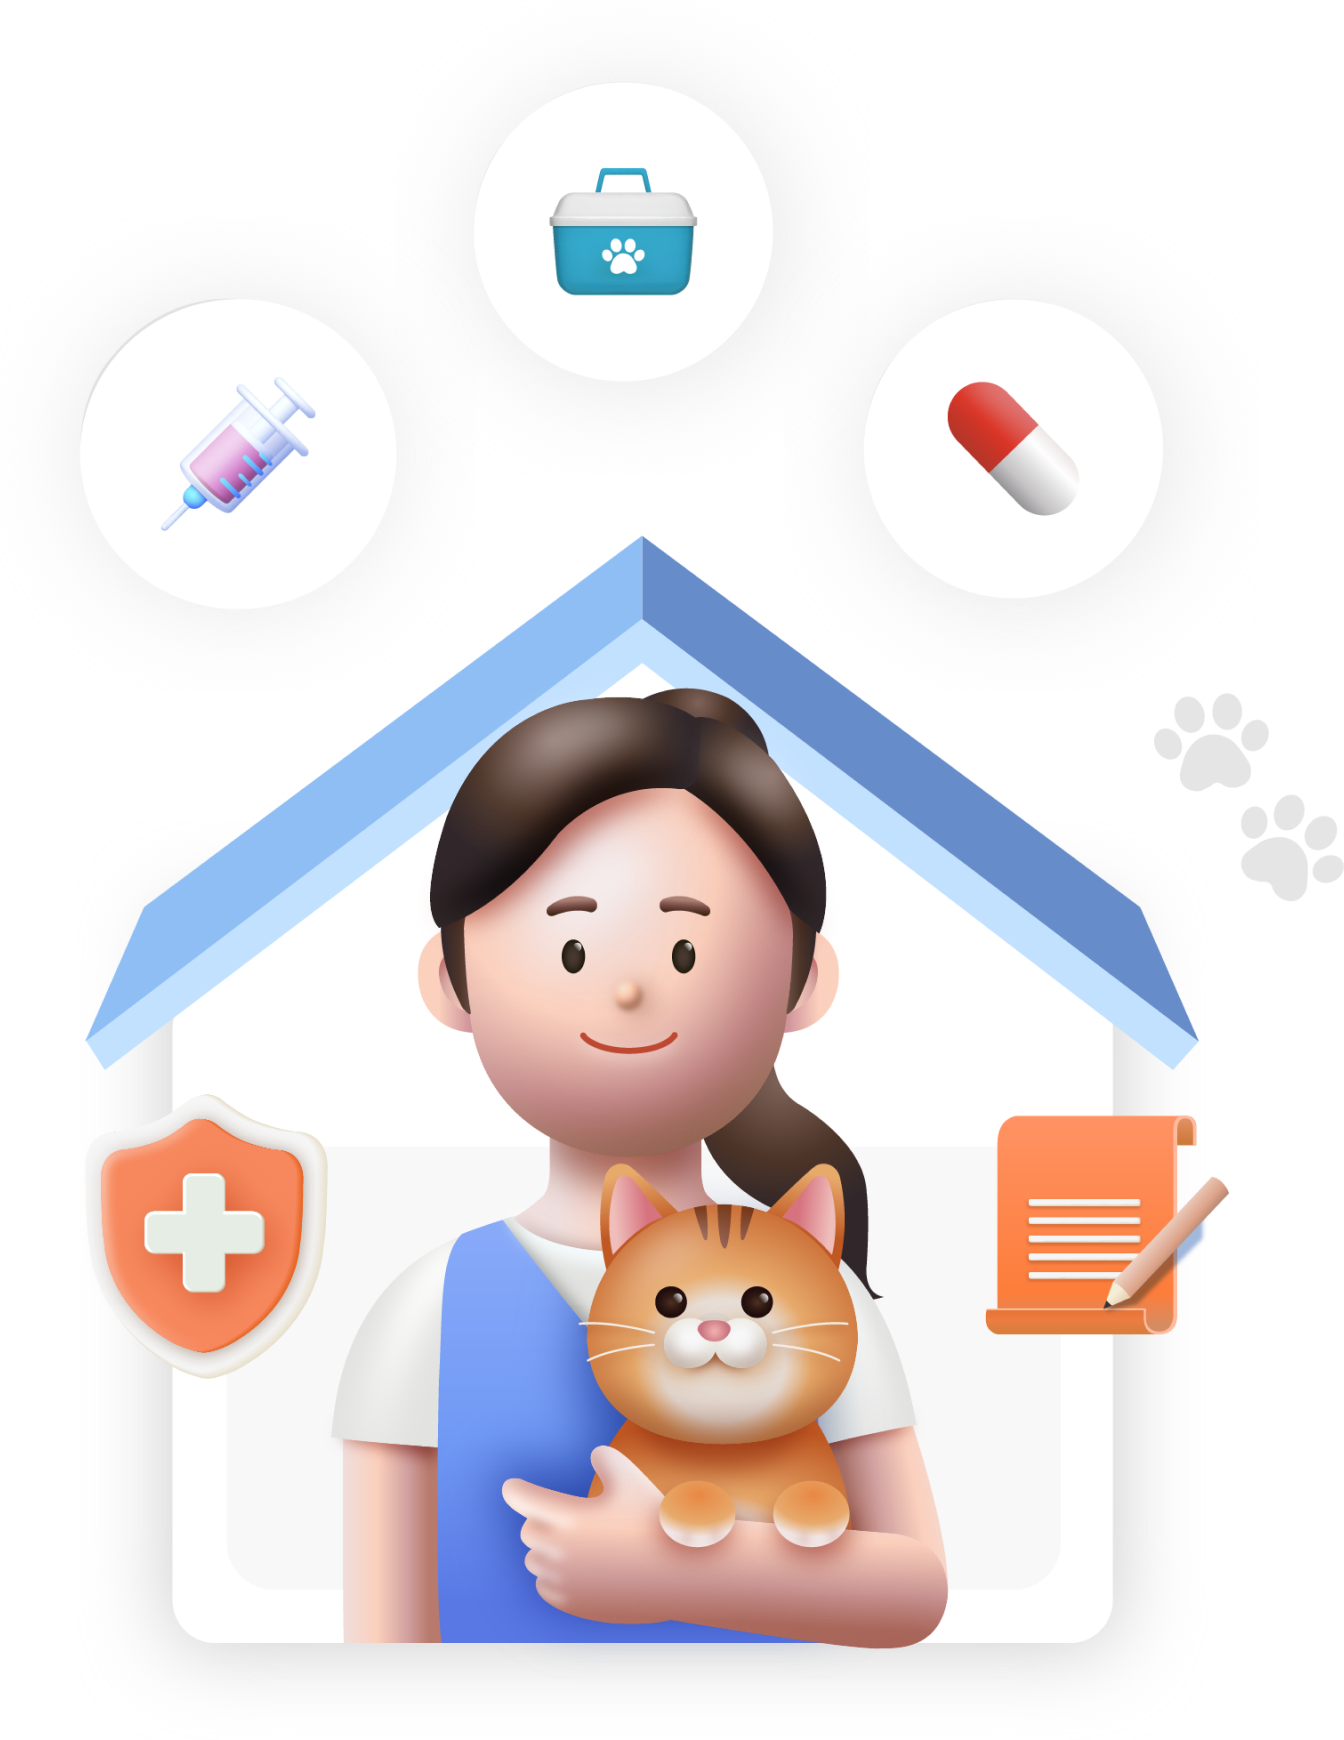
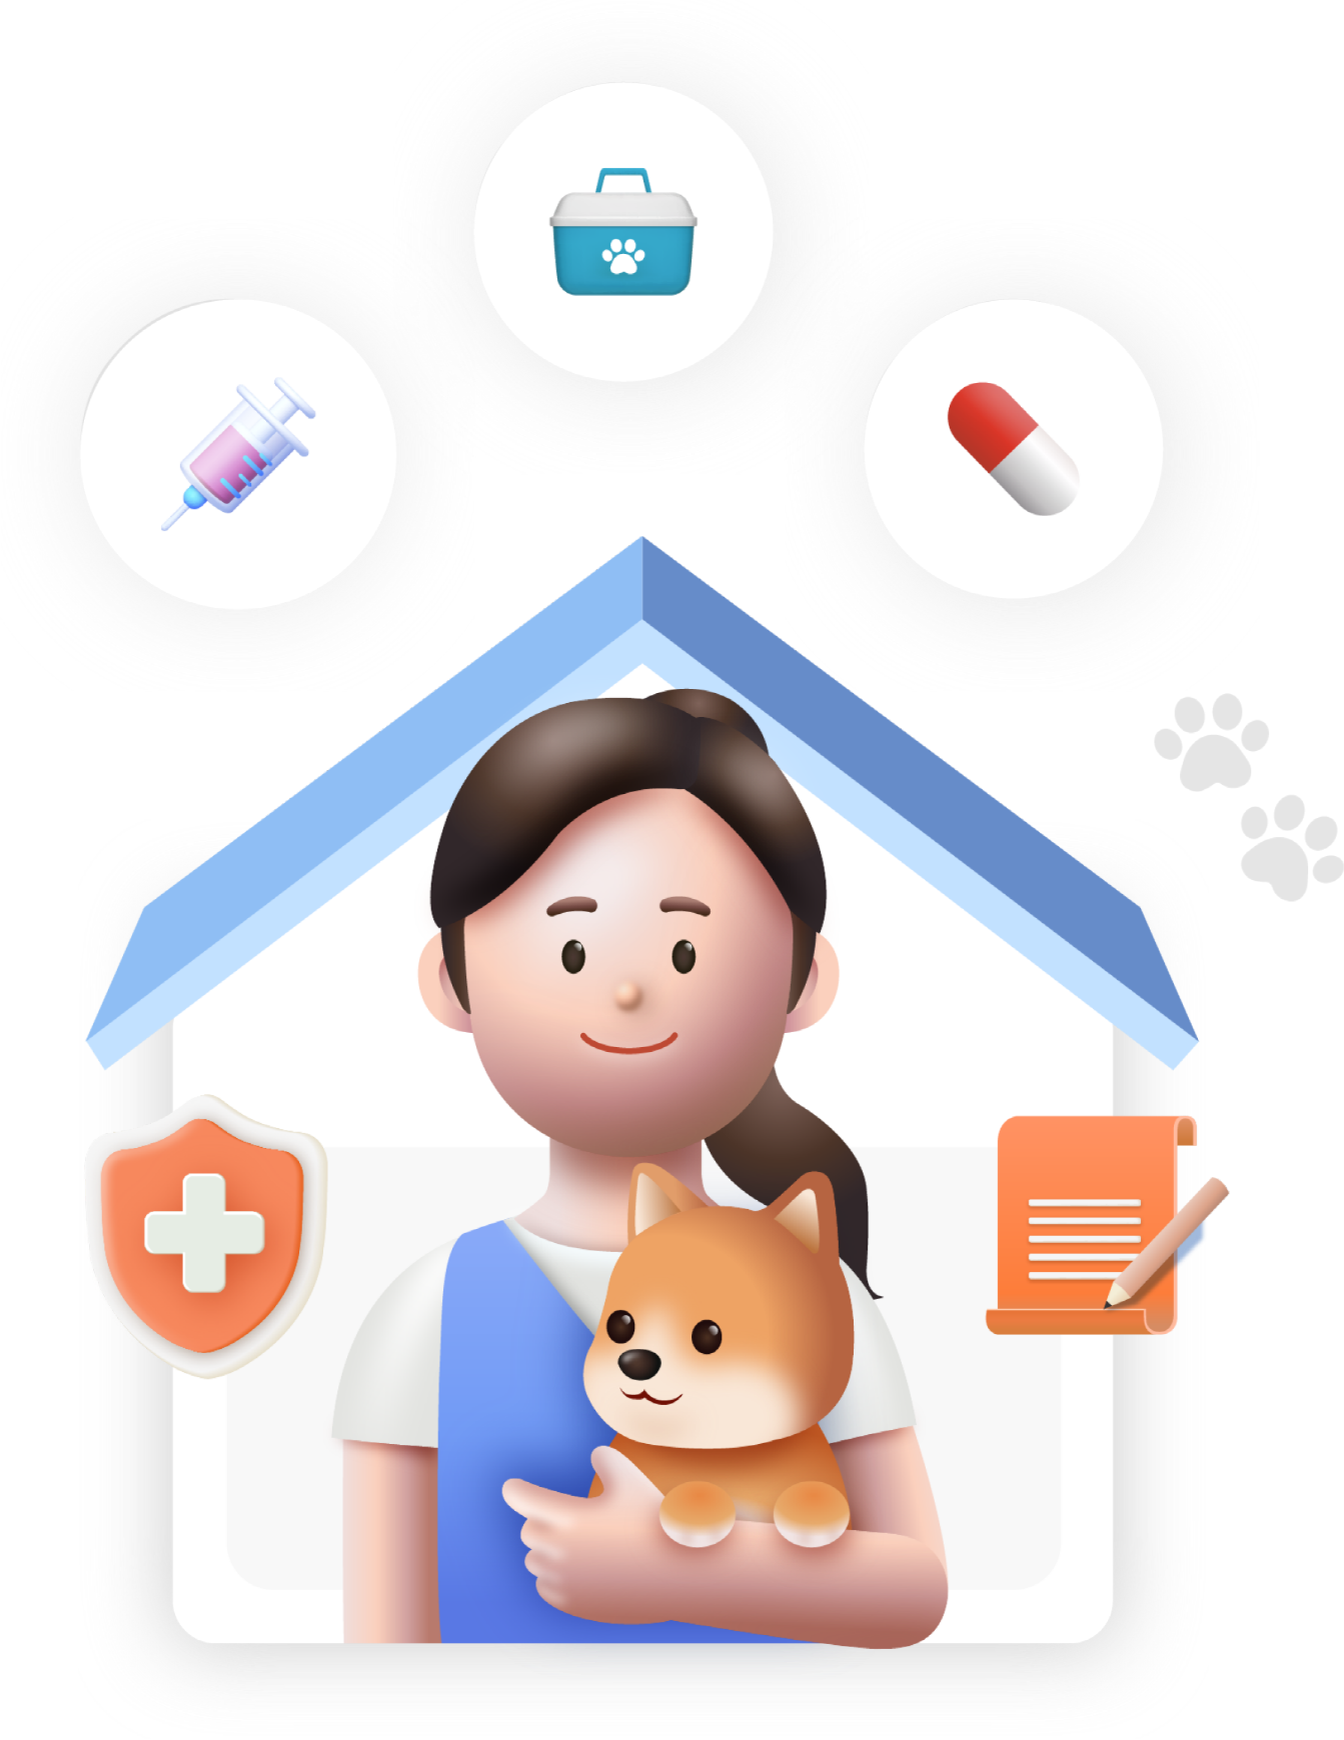
고양이 이미지 교체

Changed region(s): [[0.4375, 0.6517, 0.6562, 0.8379]]

diff --git a/html/index.html b/html/index.html
@@ -456,7 +456,7 @@
                                 <li>
                                     <p class="step04">
                                         보험 가입 반려견 사진<br />
-                                        (얼굴 사진, 옆면 전체 사진)
+                                        (전면 사진, 측면 사진, 후면 사진)
                                     </p>
                                 </li>
                             </ul>
